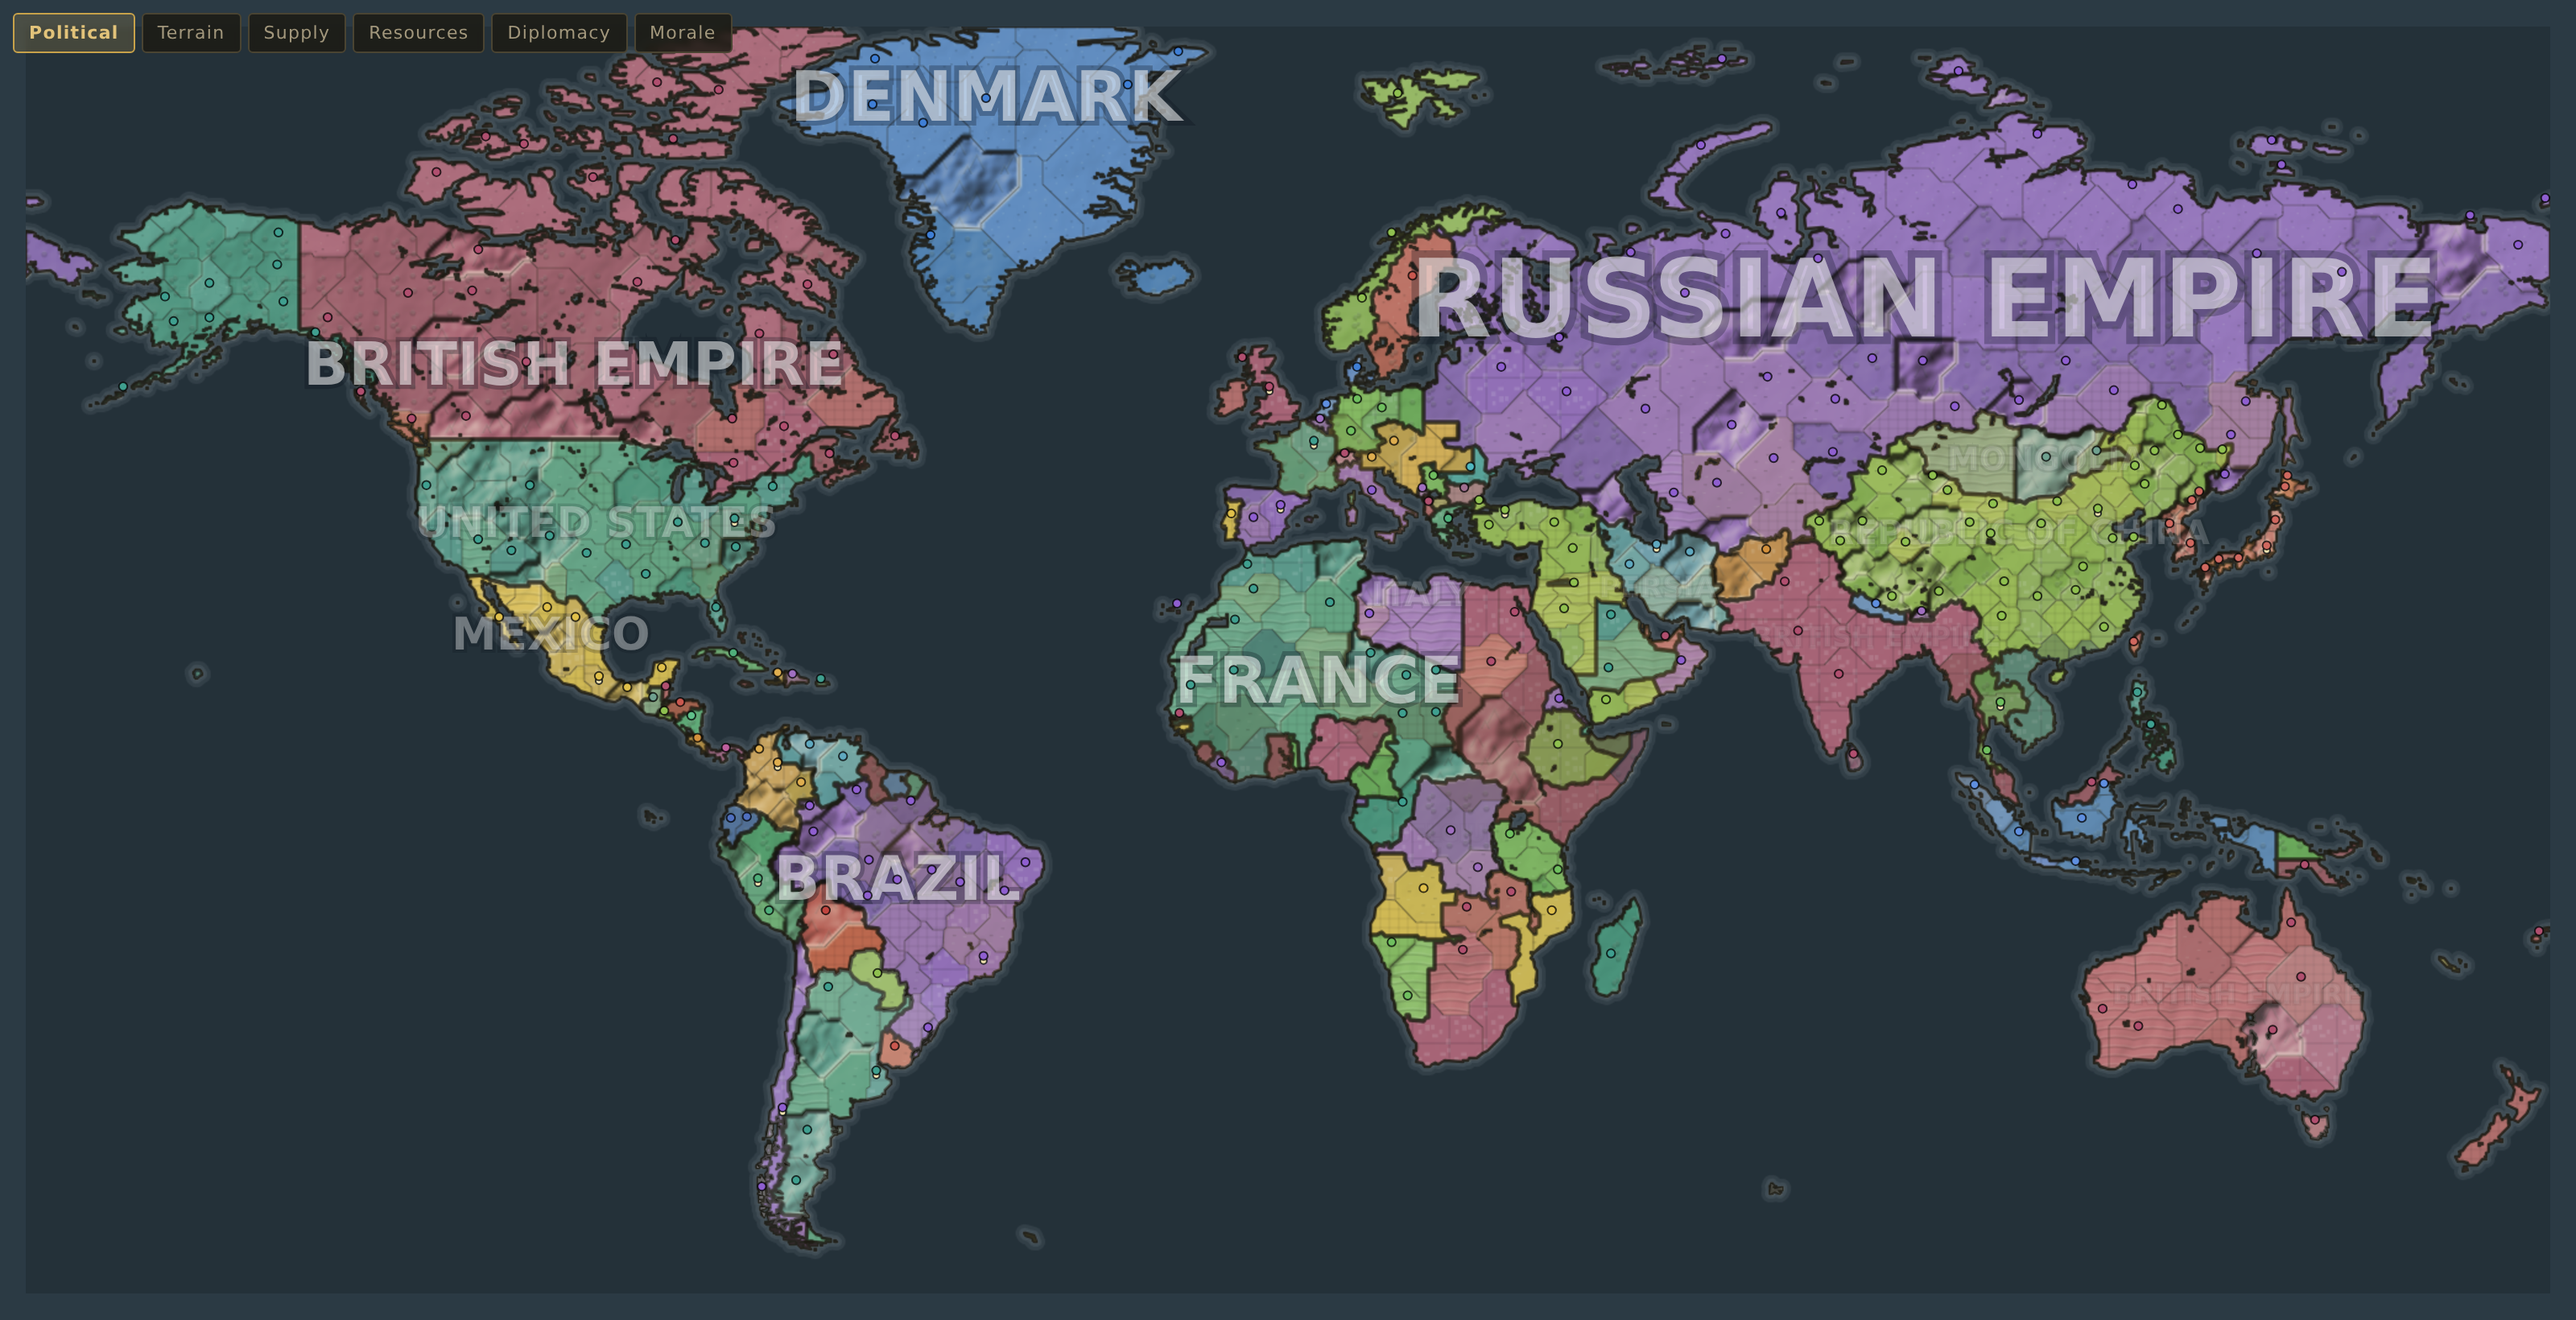
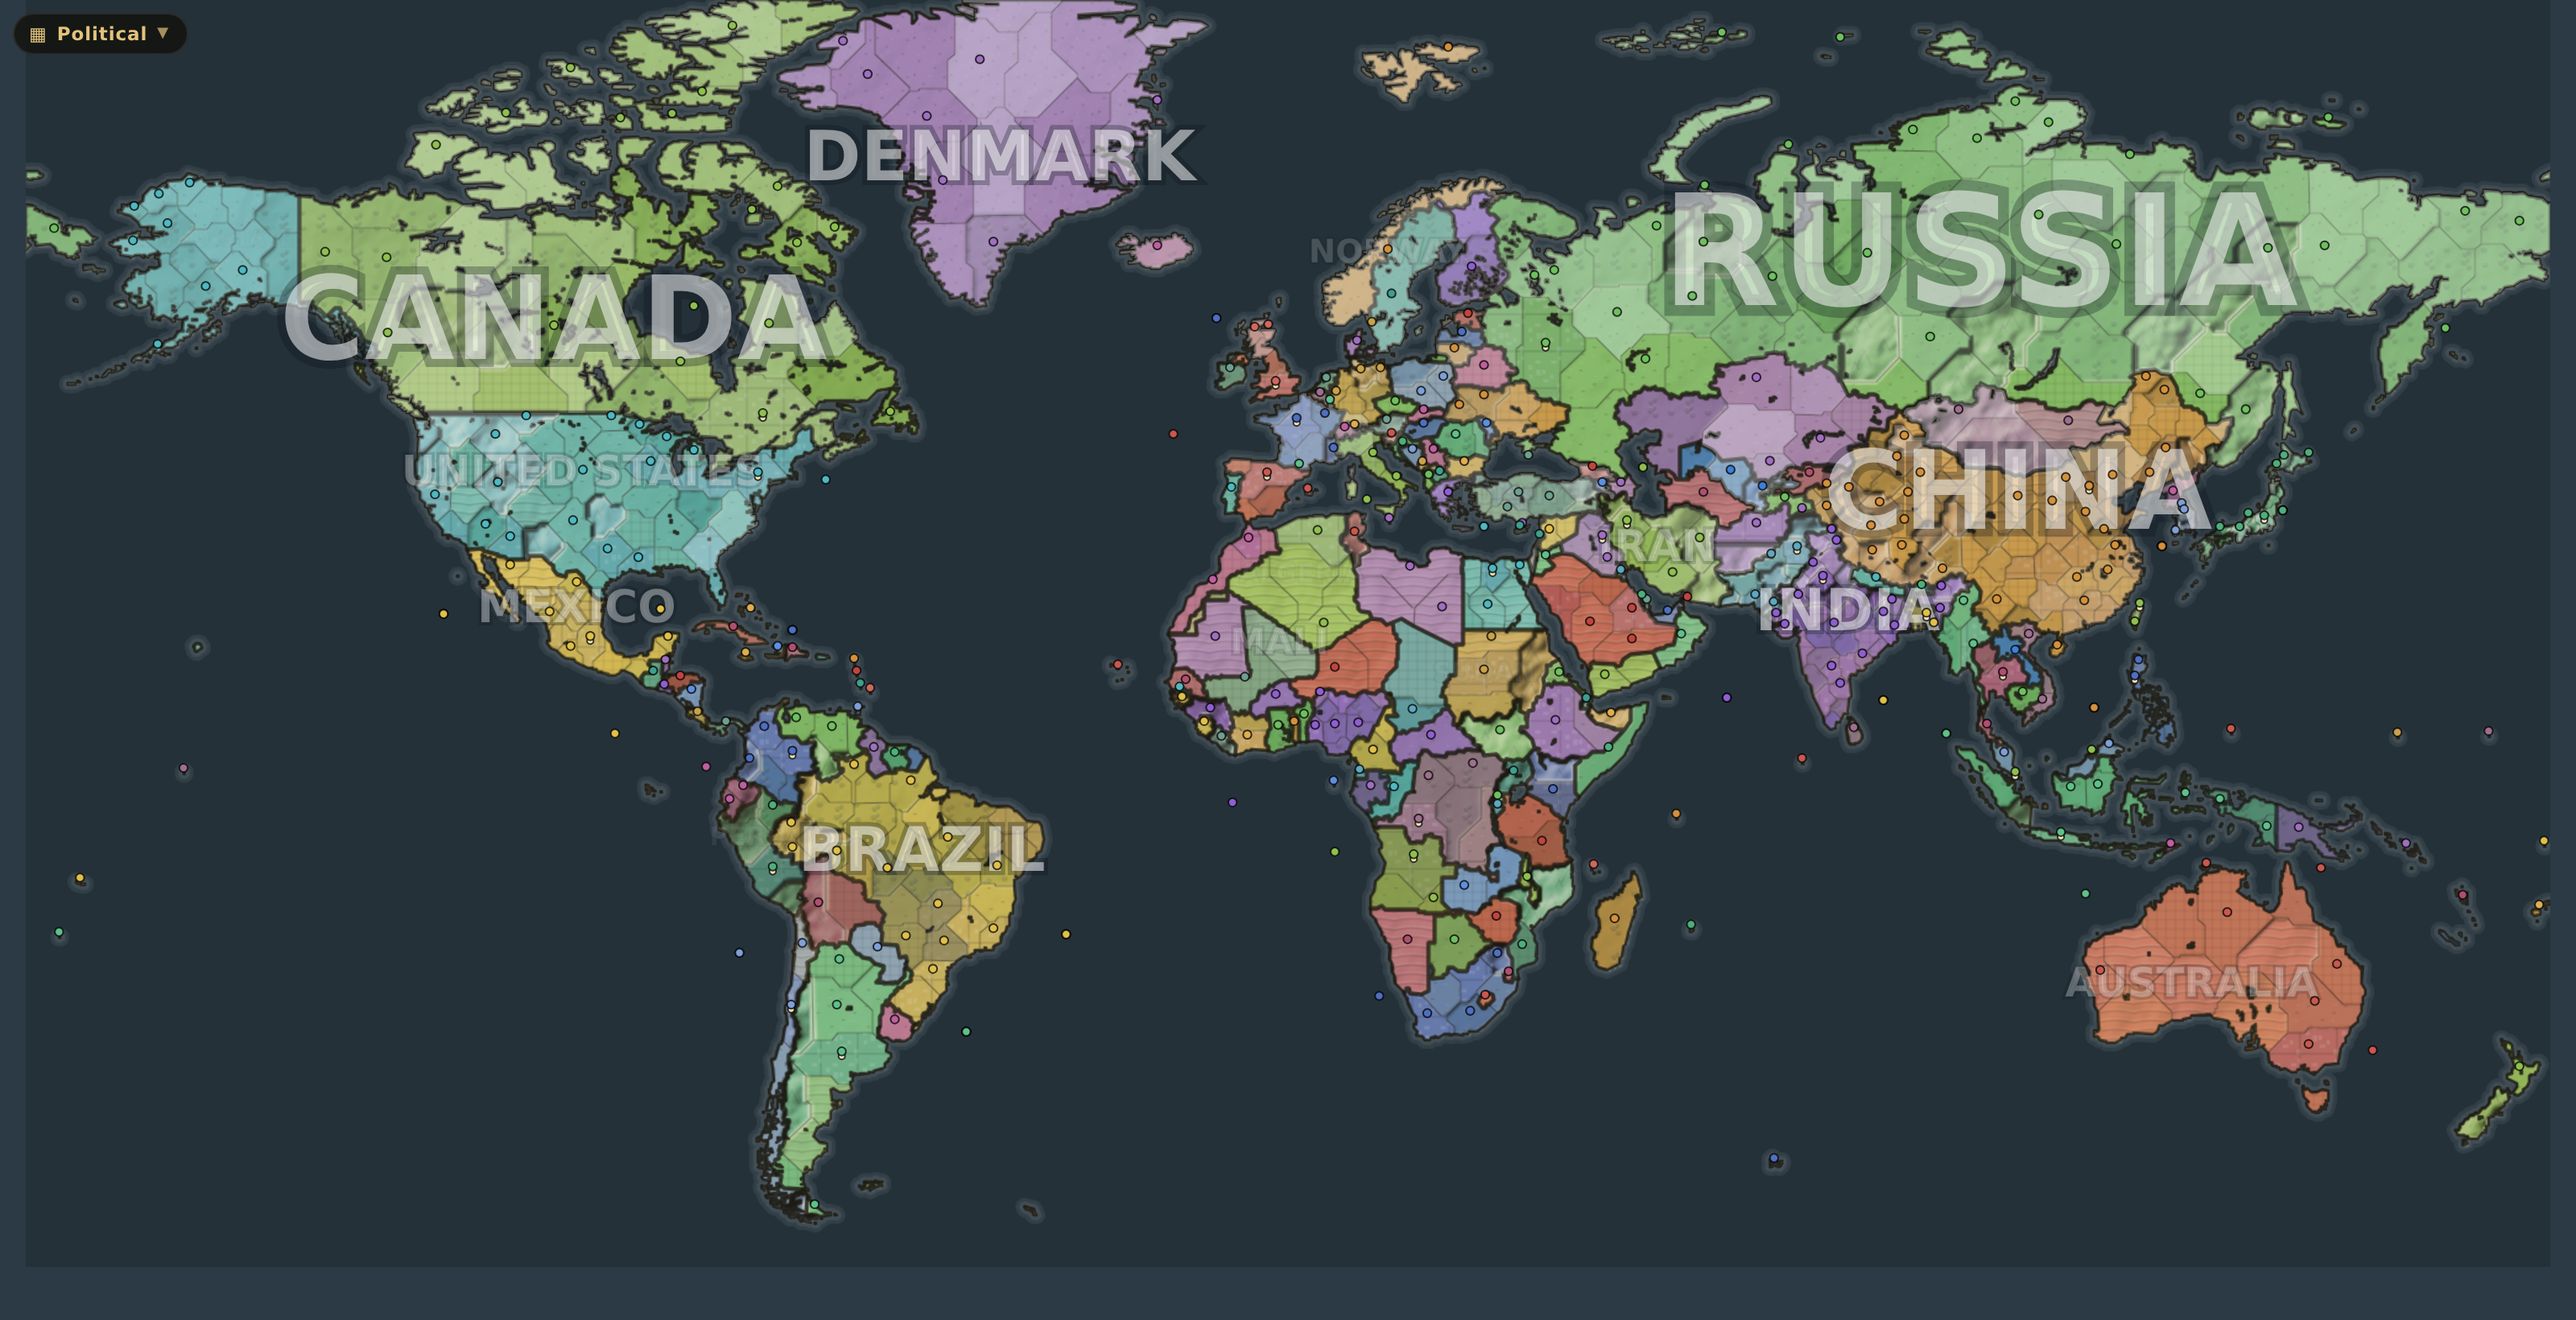
Describe the game that is now here
The README still described a Great War game on 54 powers with 720
provinces. It describes the present-day world it actually ships — 189
states, 826 provinces, NATO and the CSTO opening cold — and the 1914
world as the second era the same compiler builds.

The hero images are regenerated from the world that ships, and the tool
that makes them no longer asks the map for the German Empire by name, so
it works in either era.

diff --git a/tools/hero.js b/tools/hero.js
@@ -3,7 +3,7 @@
  * Renders the map on its own, with no interface over it, for the README.
  *
  *   node tools/hero.js               # whole world -> shots/world-map.png
- *   node tools/hero.js europe        # the powers  -> shots/europe-1914.png
+ *   node tools/hero.js europe        # the powers  -> shots/europe.png
  *   node tools/hero.js europe 180    # ...on day 180, to see the winter
  */
 'use strict';
@@ -46,7 +46,7 @@ var view = process.argv[2] === 'europe' ? 'europe' : 'world';
 var atDay = Number(process.argv[3] || 0);
 var URL = 'file://' + path.join(__dirname, '..', 'index.html');
 var OUT = path.join(__dirname, 'shots',
-  view === 'europe' ? 'europe-1914.png' : 'world-map.png');
+  view === 'europe' ? 'europe.png' : 'world-map.png');
 
 (async function () {
   var browser = await playwright.chromium.launch({
@@ -87,8 +87,10 @@ var OUT = path.join(__dirname, 'shots',
 
     var r = IA.UI.renderer;
     if (which === 'europe') {
-      var cap = IA.game.current.provinces[
-        IA.game.current.nationById.GER.capitalProvince];
+      // Berlin in either world, without caring what the country is called.
+      var s = IA.game.current;
+      var seat = s.nationById.DEU || s.nationById.GER || s.nations[0];
+      var cap = s.provinces[seat.capitalProvince];
       r.camera.zoom = 7;
       r.camera.x = cap.cx;
       r.camera.y = cap.cy;

diff --git a/README.md b/README.md
@@ -1,12 +1,16 @@
 # Iron Accord
 
-A real-time grand-strategy game of the Great War, played in the browser on a map
-of the world as it stood in 1914. You take one of 54 powers — with its real
-borders, its real neighbours and its real cities — mobilise an economy, raise an
-army, and fight the war out. No build step, no dependencies: open `index.html`
-and play.
+A real-time grand-strategy game played in the browser on a map of the world as
+it stands. You take one of 189 sovereign states — with its real borders, its
+real neighbours and its real cities — mobilise an economy, raise an army, and
+find out how the century goes. No build step, no dependencies: open
+`index.html` and play.
 
-![the world in 1914](tools/shots/world-map.png)
+The map compiler is era-agnostic and ships a second world with it: `npm run
+build:map -- --era=1914` rebuilds the same game on the Europe of the Great War,
+empires and all.
+
+![the world](tools/shots/world-map.png)
 
 ## Running it
 
@@ -25,46 +29,59 @@ runs straight from `file://`.
 
 Borders are real. The map is compiled from [Natural
 Earth](https://www.naturalearthdata.com/) 1:50m admin-0 countries and lakes,
-projected with the Miller cylindrical projection and cut into **720 land
-provinces and 175 sea zones** across **54 powers**. Antarctica is omitted; the
+projected with the Miller cylindrical projection and cut into **826 land
+provinces and 173 sea zones** across **189 states**. Antarctica is omitted; the
 map runs from 83°N to 60°S.
 
-![Europe in 1914](tools/shots/europe-1914.png)
+![Europe](tools/shots/europe.png)
 
-- **1914 is composed from modern borders.** Natural Earth ships today's world,
-  so `tools/era1914.js` maps each of 172 modern countries onto the power that
-  held it — Bohemia and Croatia to Austria-Hungary, Finland and Poland to
-  Russia, Korea to Japan, the Congo to Belgium — and then carves seven frontiers
-  that ran through a modern country rather than around it: Posen and Silesia,
-  Galicia, Alsace-Lorraine, Transylvania, Trentino and Trieste, the Hejaz, and
-  Kaiser-Wilhelmsland. Each carve is a longitude/latitude box scoped to the
-  country it takes from, so it cannot bleed into a neighbour, and the build
-  fails if one of them moves no ground.
+- **The world is whichever one you compile.** An era module supplies the
+  nations, the frontier carves a country-level merge cannot express, the period
+  spellings of place names, the date the clock starts on and the length of the
+  campaign. `tools/era2026.js` is the present day: every state is itself, and
+  dependencies fold in behind whoever holds them the way an atlas prints them.
+  `tools/era1914.js` is the Great War: it maps each modern country onto the
+  power that held it — Bohemia to Austria-Hungary, Finland to Russia, Korea to
+  Japan, the Congo to Belgium — and carves seven frontiers that ran through a
+  modern country rather than around it. Each carve is a longitude/latitude box
+  scoped to the country it takes from, so it cannot bleed into a neighbour, and
+  the build fails if one of them moves no ground.
+- **Lakes are not the sea.** The compiler cuts lakes out of the land from a
+  lakes layer, and marks that water while it does so. Nothing sails a lake and
+  no fleet blockades a country across one — at this resolution the Aegean and
+  Lake Victoria are the same size and both are ringed by land, so shape alone
+  cannot tell them apart.
 - **Provinces** are generated inside each power, sized by a blend of area and
   where people actually live. Area alone would hand Denmark more provinces than
   the German Empire, because Greenland is enormous under this projection and
   Silesia is not. A province never crosses a national border.
-- **Province names are real cities** — 640 of the 720 — under the names they
-  went by at the time: Constantinople, Petrograd, Christiania, Lemberg.
+- **Province names are real cities** — 741 of the 826 — under the names they go
+  by in the era being played: Istanbul today, Constantinople in 1914.
 - **Population is real too**, taken from the city data and compressed onto a
   playable scale, so the Ruhr and Bengal are worth fighting over and Siberia is
   worth crossing.
 - **Colours are graph-coloured** over the country adjacency graph, maximising
   hue distance, so no two powers that share a border look alike.
 
-`src/data/worldmap.js` (208 KB) is committed, so nothing is downloaded at play
-time. To rebuild it — after changing the province count, the projection, the
-1914 composition, or the source data — run `npm run build:map`, which fetches
-and caches the Natural Earth files into `tools/geodata/`.
+`src/data/worldmap.js` (239 KB) is committed, so nothing is downloaded at play
+time. To rebuild it — after changing the province count, the projection, the era
+composition, or the source data — run `npm run build:map`, which fetches and
+caches the Natural Earth files into `tools/geodata/`. Add `-- --era=1914` to
+build the other world.
 
 ## How the game works
 
-**The alliances of 1914 are already in place.** Every power belongs to the
-Central Powers, the Entente, or the neutrals; the two blocs start at war with
-each other and allied within themselves, and the neutrals start out of it with
-their own opinions to form.
+**The standing alliances are already signed.** Every power belongs to NATO, the
+CSTO, or neither; members of a bloc are allied to each other and the unaligned
+start out of it with their own opinions to form. What happens between the blocs
+is the difference between the two worlds: in 1914 they open at war, and today
+they open armed and cold — no treaty either way, a poor opinion of each other,
+and whether that becomes a war is the thing the campaign is about. The AI knows
+the difference: in a world that opens cold, far fewer powers go looking for a
+war and the ones that do need an actual grievance rather than merely a weaker
+neighbour.
 
-**The war opens on 28 July 1914** and runs on the real calendar, which is what
+**The campaign opens on the era's own date** and runs on the real calendar, which is what
 makes the seasons mean anything. Weather is settled once a day per weather cell
 — about twelve degrees by ten, with the grid drifting eastward so fronts move —
 from a table for that cell's climate and season. It costs you in three places:
@@ -199,6 +216,7 @@ src/engine/           seeded RNG, helpers, map decoder, per-game world setup
 src/game/             simulation: state, economy, combat, orders, diplomacy, AI,
                       market, the hourly loop, save/load
 src/ui/               canvas map renderer and the DOM interface
+tools/era2026.js      the present-day world: states, alliances, capitals
 tools/era1914.js      who held what in 1914, and what it was called then
 tools/buildmap.js     the map compiler
 tools/                test harnesses and the screenshot tool
@@ -308,7 +326,7 @@ node tools/hero.js [europe]    # regenerate the README map images
 hour that stacks stand on real provinces, hit points stay within bounds, naval
 units stay at sea, resources stay finite and non-negative, and province ownership
 records agree with the provinces themselves. It also asserts the map is really
-the 1914 world, then round-trips a save and confirms both copies evolve
+the world it says it is, then round-trips a save and confirms both copies evolve
 identically.
 
 Beyond that it tests the mechanics rather than the plumbing, which is a
@@ -358,9 +376,10 @@ drop count: across repeated runs on a shared machine the median is immovable
 while the tail wanders with the host scheduler, and the regression this file was
 written to catch sat at 33 ms — a doubling no amount of averaging could hide.
 
-`buildmap` checks itself too. It verifies that 23 real cities land inside a
-province held by the right power in 1914 — Warsaw Russian, Poznan German, Lviv
-Austrian, Leopoldville Belgian — that a frontier carve which moves no ground is
+`buildmap` checks itself too. It verifies that a list of real cities lands
+inside the country that governs it — twenty of them today, twenty-three in 1914,
+where Warsaw has to come out Russian, Poznan German and Lviv Austrian — that a
+frontier carve which moves no ground is
 an error rather than a silent no-op, that every traced province outline is a
 closed chain, that the coordinate encoder round-trips exactly, and that no
 province spans more than 150 map units. That last one exists because islands the
@@ -381,7 +400,9 @@ Most of the feel lives in a few constants:
 | Starting stockpiles | `START_RESOURCES` in `src/game/state.js` |
 | Population compression | `gamePop` in `src/engine/worldgen.js` |
 | Climate and relief | the lon/lat boxes in `src/engine/worldgen.js` |
-| Who held what in 1914 | `HELD_BY` and `SPLITS` in `tools/era1914.js` (then rebuild) |
+| Which world you play on | `--era=` on `tools/buildmap.js` (then rebuild) |
+| Who holds what | the era module in `tools/era2026.js` or `tools/era1914.js` (then rebuild) |
+| The standing alliances | `NATO` and `CSTO` in `tools/era2026.js` (then rebuild) |
 | Province count | `TARGET_PROVINCES` in `tools/buildmap.js` (then rebuild) |
 | Victory threshold | `victoryVP` in `src/game/state.js` |
 | Real seconds per game hour | `SPEEDS` in `src/game/state.js` |
@@ -395,11 +416,11 @@ Most of the feel lives in a few constants:
 ## Data and attribution
 
 Map data © [Natural Earth](https://www.naturalearthdata.com/), public domain.
-Modern borders, names and status follow that dataset's conventions; the 1914
-composition on top of them is this project's own, and is a playable
-approximation rather than a scholarly one. Frontiers that were contested at the
-time are drawn one way so the game has an answer, not because the question was
-settled.
+Modern borders, names and status follow that dataset's conventions. The
+alliance lists and the 1914 composition on top of them are this project's own,
+and are playable approximations rather than scholarly ones. Frontiers that are
+or were contested are drawn one way so the game has an answer, not because the
+question is settled.
 
 Iron Accord is an original game. The name, artwork, icons, interface, unit and
 technology tables, map and code are its own, and it is not affiliated with or
